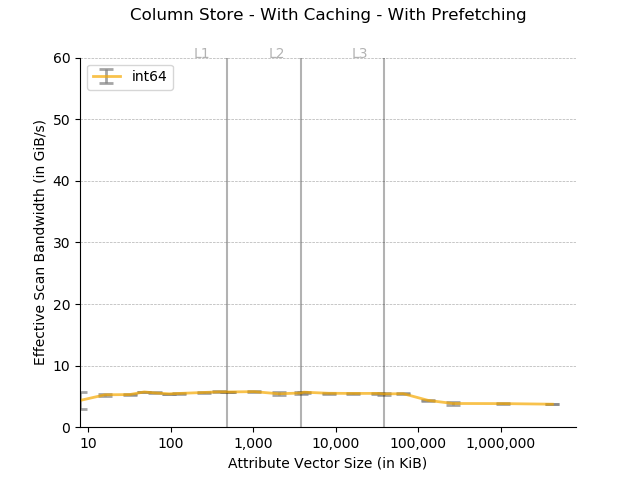
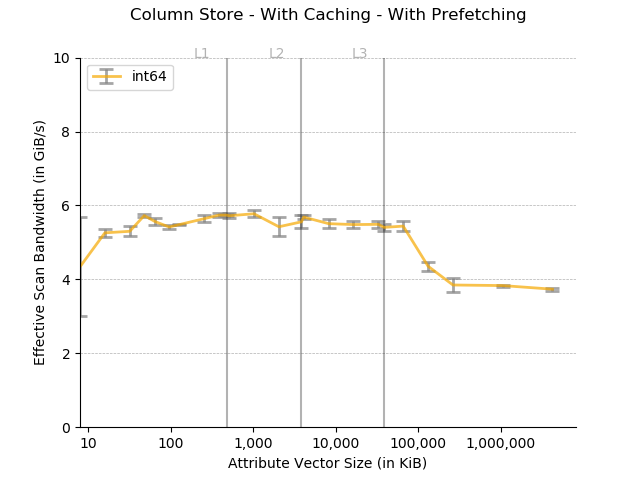
Update plots

diff --git a/generate_figures.py b/generate_figures.py
@@ -1,6 +1,5 @@
 import os
 import re
-import sys
 
 import matplotlib.pyplot as plt
 from matplotlib import ticker
@@ -83,10 +82,7 @@ def process_file(filename, show_variance, only_64, system_type):
 
 
     if system_type == 'intel':
-        if nocaching_enabled:
-            plt.ylim(ymin=0, ymax=20)
-        else:
-            plt.ylim(ymin=0, ymax=60)
+        plt.ylim(ymin=0, ymax=10)
     else:
         plt.ylim(ymin=0, ymax=15)
 
